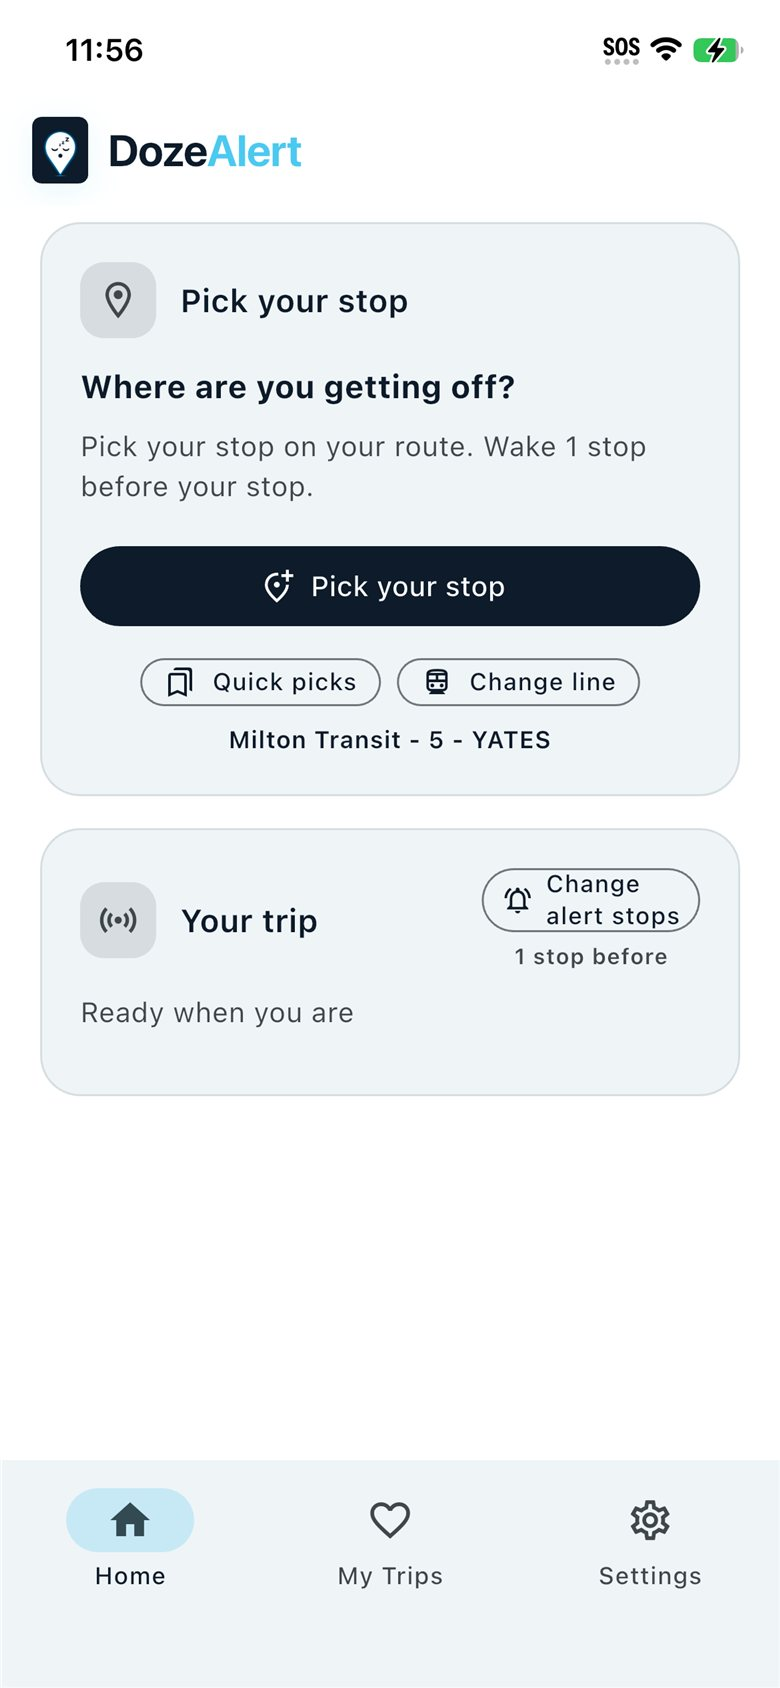
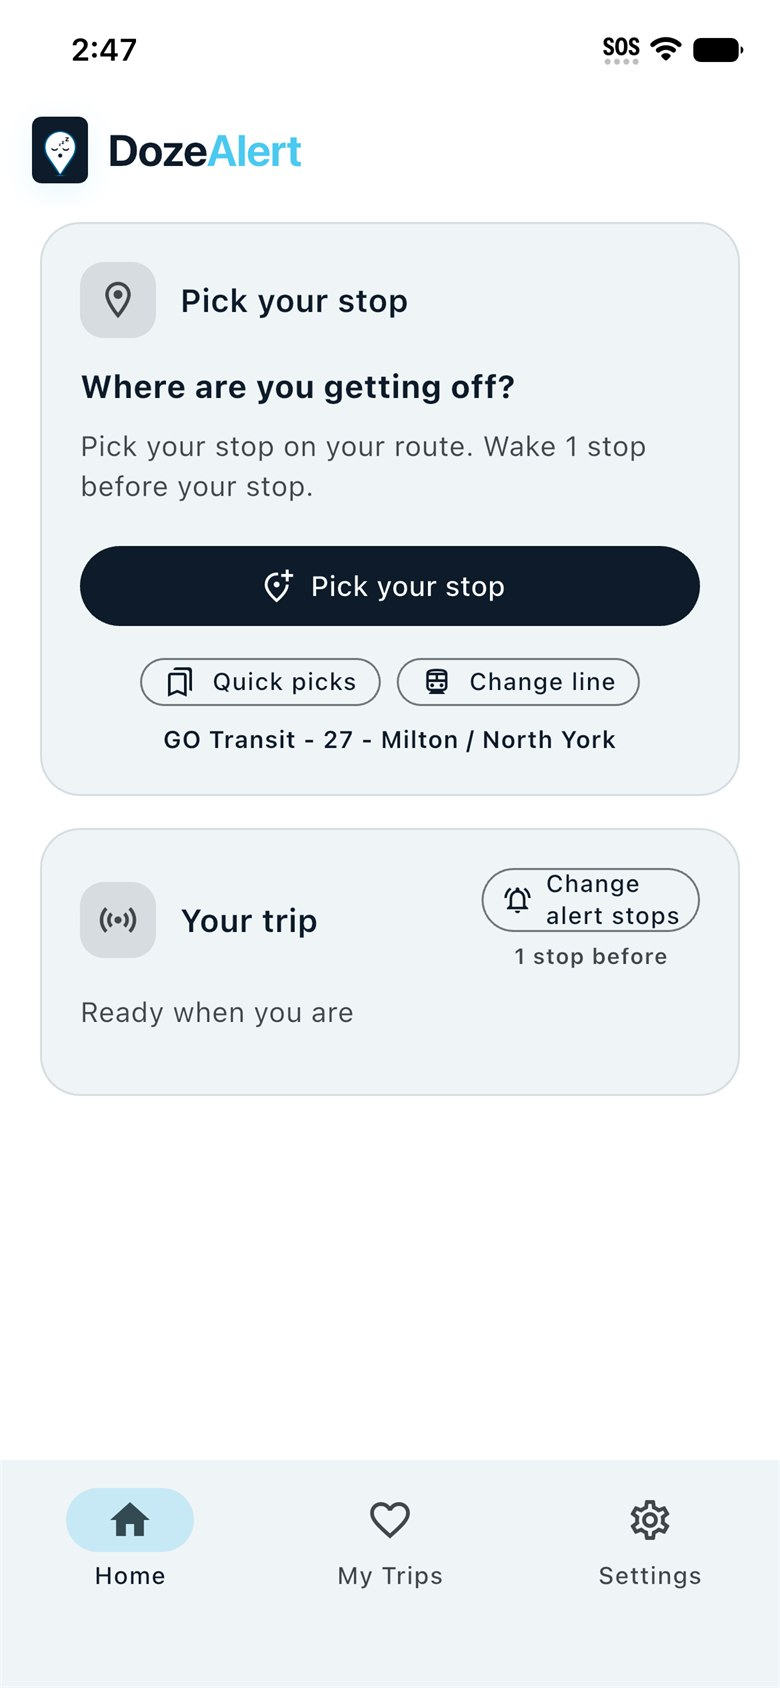
Fix Android false wake from lastKnown on trip start.
Skip cached GPS for stop-progress locks at Start, clear prewarm-poisoned FGS prefs, and bump to 1.1.0+63 for the Android release.

diff --git a/lib/providers/location_provider.dart b/lib/providers/location_provider.dart
@@ -284,6 +284,15 @@ class LocationProvider extends ChangeNotifier {
       _monitoringStartedAt = startedAt;
       await _monitoringStorage.markMonitoringStarted(startedAt);
       _resetLocationState(awaitingFresh: recentPrewarmFix == null);
+
+      // Android: clear any prewarm-seeded transit progress before FGS loads
+      // prefs. A stale "on route at destination" snapshot would wake immediately
+      // on Start. Mid-trip FGS evaluation is unchanged.
+      if (Platform.isAndroid) {
+        await _monitoringStorage.setTransitOnRouteActive(false);
+        await _monitoringStorage.clearTransitBackgroundSnapshot();
+        _transitModeProvider.resetProgressForMonitoringStart();
+      }
     } else {
       _monitoringStartedAt = await _monitoringStorage.loadMonitoringStartedAt();
       _awaitingFreshLocation = false;
@@ -394,16 +403,10 @@ class LocationProvider extends ChangeNotifier {
       await _onLocationUpdate(prewarmFix, allowStale: true);
     }
 
-    // iOS: never seed transit progress from Core Location lastKnown — it often
-    // sits near the destination the rider just picked, which shows
-    // "At destination stop" while Android (FGS-filtered live GPS) is correct.
-    if (!Platform.isIOS) {
-      final lastKnown = await _locationService.fetchLastKnownLocation();
-      if (lastKnown != null) {
-        await _onLocationUpdate(lastKnown, allowStale: true);
-      }
-    }
-
+    // Never seed stop progress from lastKnown on trip start. A cached fix near
+    // the destination the rider just picked (or visited) locks "at destination"
+    // and fires the wake before live GPS snaps onto the route. Live fixes only.
+    // (FGS mid-trip stream is unchanged — it does not emit lastKnown.)
     await refreshLocation();
   }
 
@@ -601,10 +604,9 @@ class LocationProvider extends ChangeNotifier {
       return;
     }
 
-    // iOS: cached/stale fixes may only seed direction — never lock stop progress
-    // (otherwise a lastKnown near the destination zeros stops-remaining).
-    final iosStaleProgressGuard =
-        Platform.isIOS && allowStale && _isStaleLocation(location);
+    // Cached/stale fixes may only seed direction — never lock stop progress
+    // (otherwise lastKnown near the destination zeros stops-remaining / wakes).
+    final staleProgressGuard = allowStale && _isStaleLocation(location);
 
     final routeActive = _transitModeProvider.isActive;
     final bootstrapPhase = _awaitingFreshLocation ||
@@ -613,7 +615,7 @@ class LocationProvider extends ChangeNotifier {
             !routeActive);
     final allowDegraded = _settingsService.settings.transitModeEnabled &&
         (bootstrapPhase || routeActive);
-    final positionOk = !iosStaleProgressGuard &&
+    final positionOk = !staleProgressGuard &&
         _gpsQualityGate.accept(
           location,
           allowDegraded: allowDegraded,
@@ -1133,15 +1135,8 @@ class LocationProvider extends ChangeNotifier {
         return;
       }
 
-      // Android only: lastKnown fallback. On iOS it falsely reports arrival.
-      if (Platform.isIOS) {
-        return;
-      }
-
-      final lastKnown = await _locationService.fetchLastKnownLocation();
-      if (lastKnown != null) {
-        await _onLocationUpdate(lastKnown, allowStale: true);
-      }
+      // Do not fall back to lastKnown — it falsely arms stop wakes at Start.
+      // Wait for the next live stream / FGS fix instead.
     } catch (error) {
       AppLog.d('LocationProvider: refreshLocation failed: $error');
     }

diff --git a/lib/providers/transit_mode_provider.dart b/lib/providers/transit_mode_provider.dart
@@ -1,5 +1,4 @@
 import 'dart:async';
-import 'dart:io';
 import 'dart:math' as math;
 
 import 'package:flutter/material.dart';
@@ -253,10 +252,10 @@ class TransitModeProvider extends ChangeNotifier {
       fixTimestamp: fixTimestamp,
     );
 
-    // iOS only: a bad projection / cached fix can claim "at destination" while
-    // the rider is still far away as the crow flies. Android's FGS filter makes
-    // this rare — leave that path alone.
-    final progressSnapshot = _rejectImplausibleIosArrival(
+    // First-lock guard: a bad projection / cached fix can claim "at destination"
+    // while the rider is still far away as the crow flies. Only applies before
+    // progress is established — mid-trip stop tracking is unchanged.
+    final progressSnapshot = _rejectImplausibleBootstrapArrival(
       rawSnapshot,
       latitude: latitude,
       longitude: longitude,
@@ -510,6 +509,20 @@ class TransitModeProvider extends ChangeNotifier {
     _approachAlarmTriggered = false;
   }
 
+  /// Android Start: drop prewarm/lastKnown progress so FGS cannot inherit a
+  /// false "at destination" lock. Does not change mid-trip evaluation rules.
+  void resetProgressForMonitoringStart() {
+    _approachAlarmTriggered = false;
+    _snapshot = TransitModeSnapshot.inactive;
+    _lastActiveSnapshot = null;
+    _stopProgressTracker.reset();
+    _movingAwayDetector.reset();
+    _resetWakePlan();
+    _wakeArmedAt = null;
+    _wakeArmStableFixes = 0;
+    _lastWakeDecisionReason = null;
+  }
+
   void refreshFromSettings() {
     if (!_settingsService.settings.transitModeEnabled) {
       if (_snapshot.isActive ||
@@ -636,16 +649,16 @@ class TransitModeProvider extends ChangeNotifier {
     return snapshot;
   }
 
-  /// Drops an iOS "0 stops remaining" match when GPS is clearly nowhere near
-  /// the destination stop. Shared hop math is unchanged on Android.
-  TransitModeSnapshot _rejectImplausibleIosArrival(
+  /// Drops an initial "0 stops remaining" match when GPS is clearly nowhere
+  /// near the destination stop. Once progress is established, mid-trip
+  /// tracking (including Android FGS) is left alone.
+  TransitModeSnapshot _rejectImplausibleBootstrapArrival(
     TransitModeSnapshot snapshot, {
     required double? latitude,
     required double? longitude,
     double? accuracyMeters,
   }) {
-    if (!Platform.isIOS ||
-        !snapshot.isActive ||
+    if (!snapshot.isActive ||
         snapshot.stopsRemaining > 0 ||
         snapshot.destinationStop == null ||
         latitude == null ||

diff --git a/lib/services/location_service.dart b/lib/services/location_service.dart
@@ -218,17 +218,9 @@ class LocationService {
     _mode = mode;
     _navigationPriority = navigationPriority;
 
-    // Android can use a recent lastKnown to paint UI immediately; the FGS path
-    // still filters poor fixes before transit progress locks. On iOS, Core
-    // Location's lastKnown is often a cached fix near a recently opened map
-    // pin / prior visit — emitting it here falsely zeros stops-remaining.
-    if (!Platform.isIOS) {
-      final lastKnown = await fetchLastKnownLocation();
-      if (lastKnown != null) {
-        _emitLocation(lastKnown);
-      }
-    }
-
+    // Do not emit lastKnown. A cached fix near a recently picked / visited
+    // destination can lock transit progress at "at destination" before live
+    // GPS arrives. Fresh current + stream follow immediately below.
     await _emitCurrentLocation(navigationPriority: navigationPriority);
 
     await _positionSubscription?.cancel();

diff --git a/app-store/screens/README.md b/app-store/screens/README.md
@@ -1,0 +1,29 @@
+# Upload these screenshots to App Store Connect
+
+## Folders
+
+| Folder | Size | Use in Connect |
+|--------|------|----------------|
+| `upload/6.5-inch/` | 1284 × 2778 | **iPhone 6.5" Display** (what Connect shows for you) |
+| `upload/6.1-inch/` | 1170 × 2532 | **iPhone 6.1"** if that slot appears |
+| `upload/6.7-inch/` | 1290 × 2796 | **iPhone 6.7"** if that slot appears |
+
+Originals stay as `IMG_0001.PNG` … in this folder (`IMG_0001` = home pick stop; latest capture also kept as `IMG_0008.PNG`).
+
+## Upload order (same in both folders)
+
+1. `01-home-pick-stop.png` — Home, pick your stop  
+2. `02-pick-stop-stations.png` — Station list  
+3. `03-monitoring-transit.png` — Transit trip watching  
+4. `04-wake-alert-settings.png` — Wake by stops sheet  
+5. `05-map-destination.png` — Map pin destination  
+6. `06-monitoring-map-pin.png` — Map-pin trip watching  
+
+## In App Store Connect
+
+1. Open DozeAlert → your iOS version → **Screenshots** → **iPhone**.  
+2. For **iPhone 6.5" Display**, drag all six files from `upload/6.5-inch/` in order 01 → 06.  
+3. If Connect also asks for **6.1"** or **6.7"**, use those folders the same way.  
+4. Click **Save**.
+
+Do not use Wear screenshots. Portrait only.
